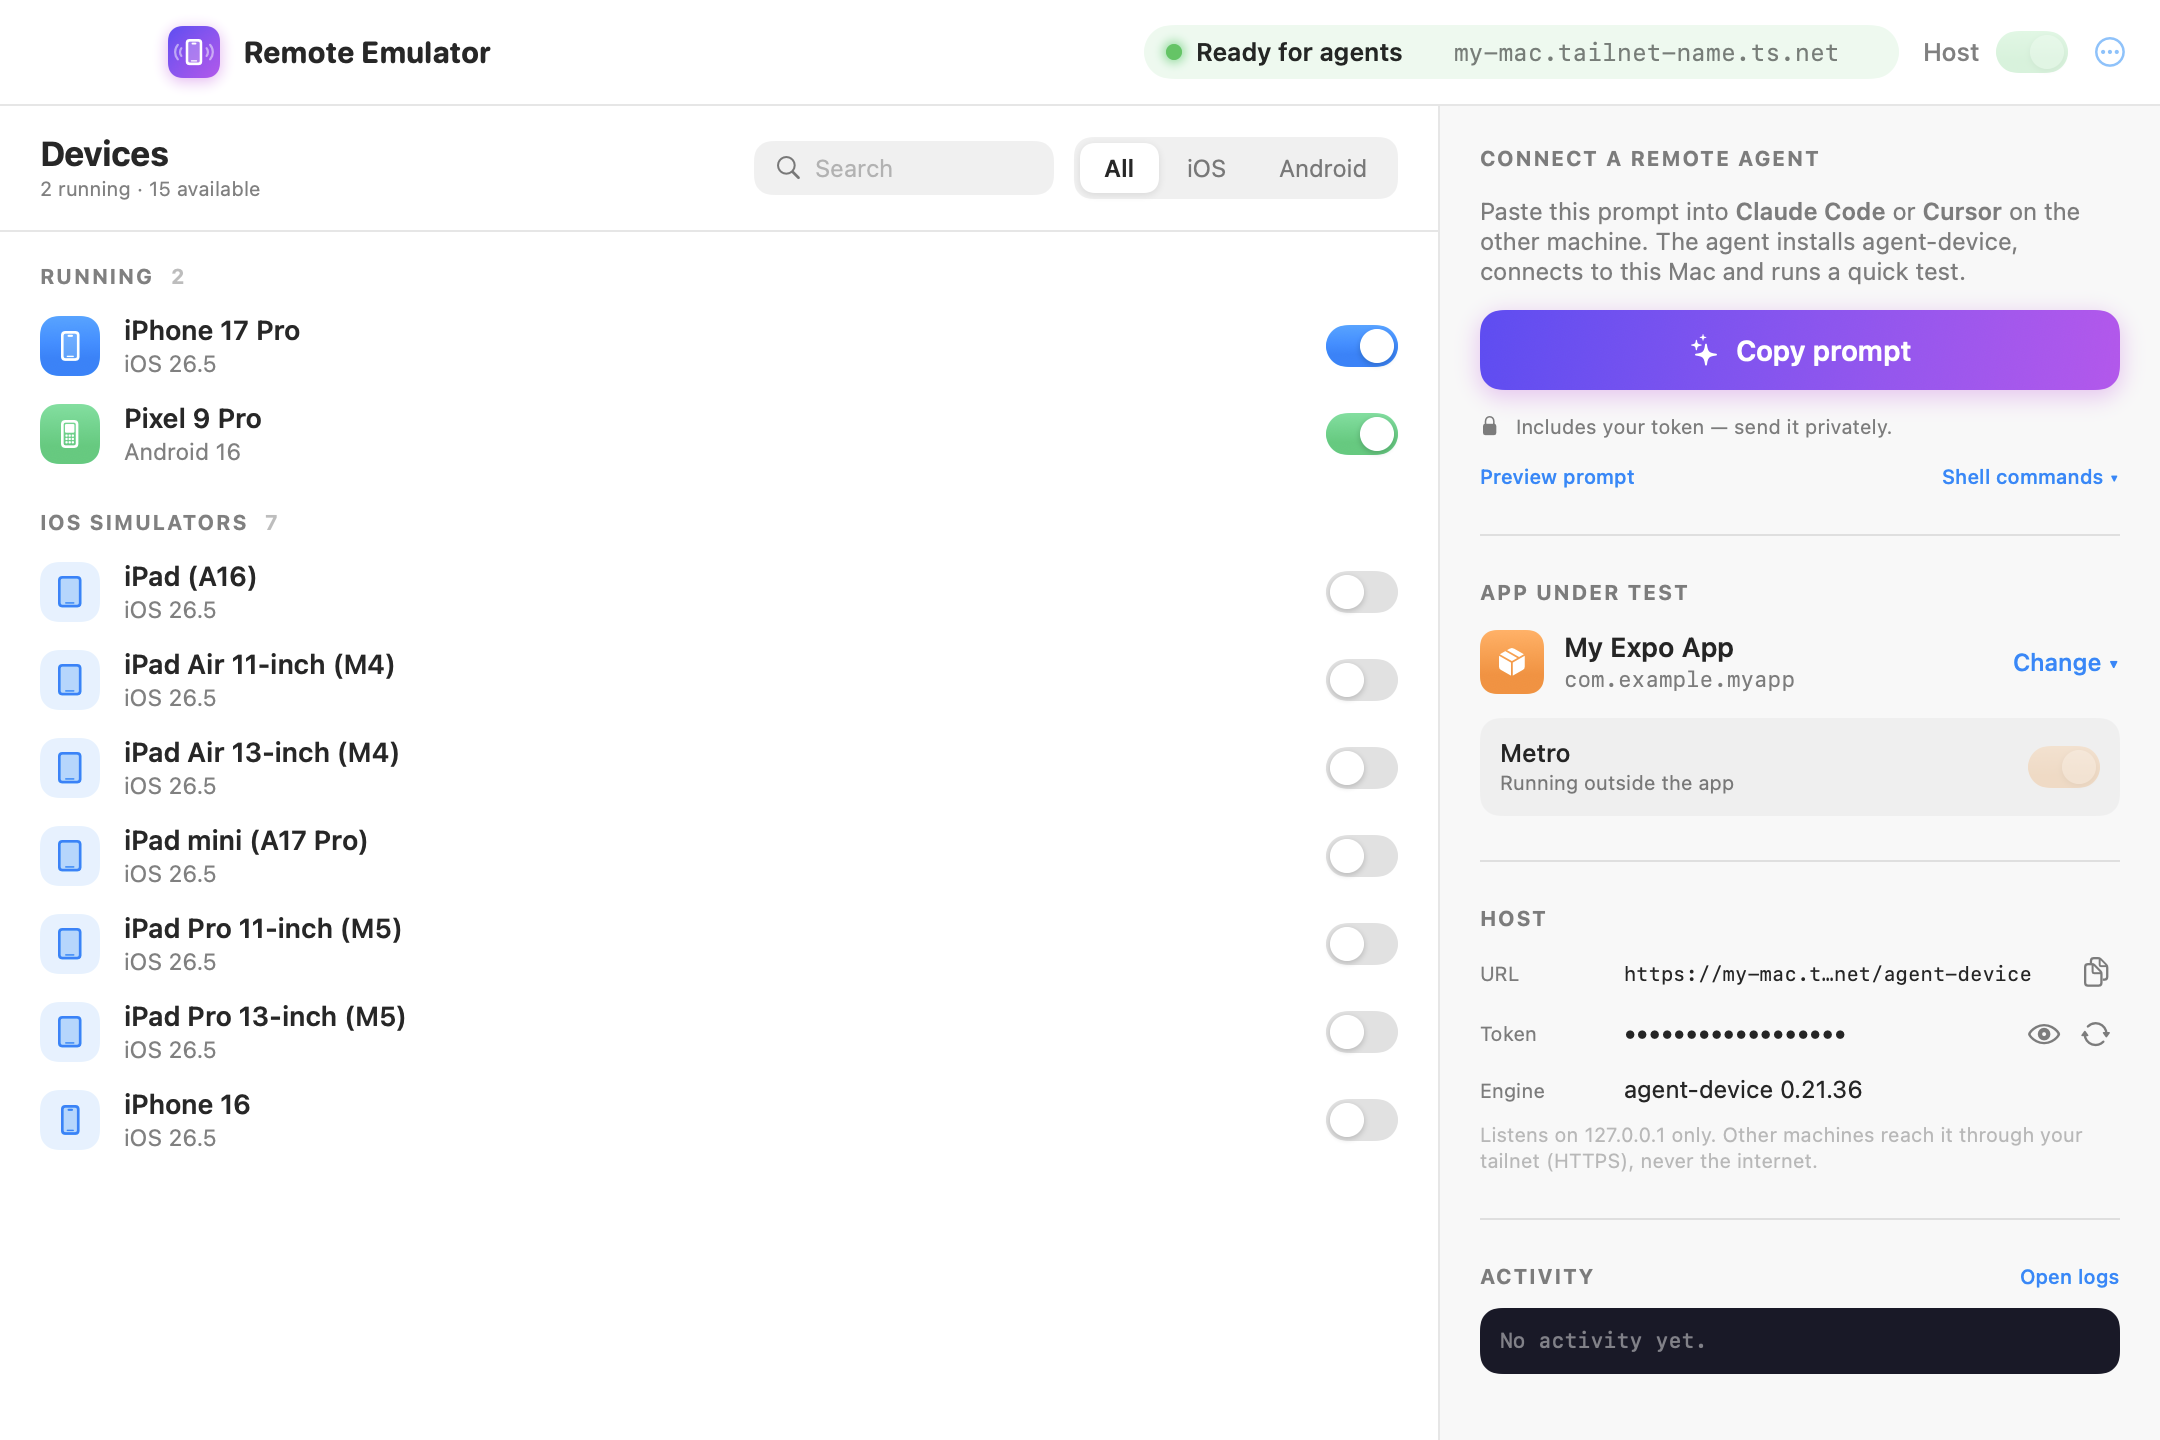
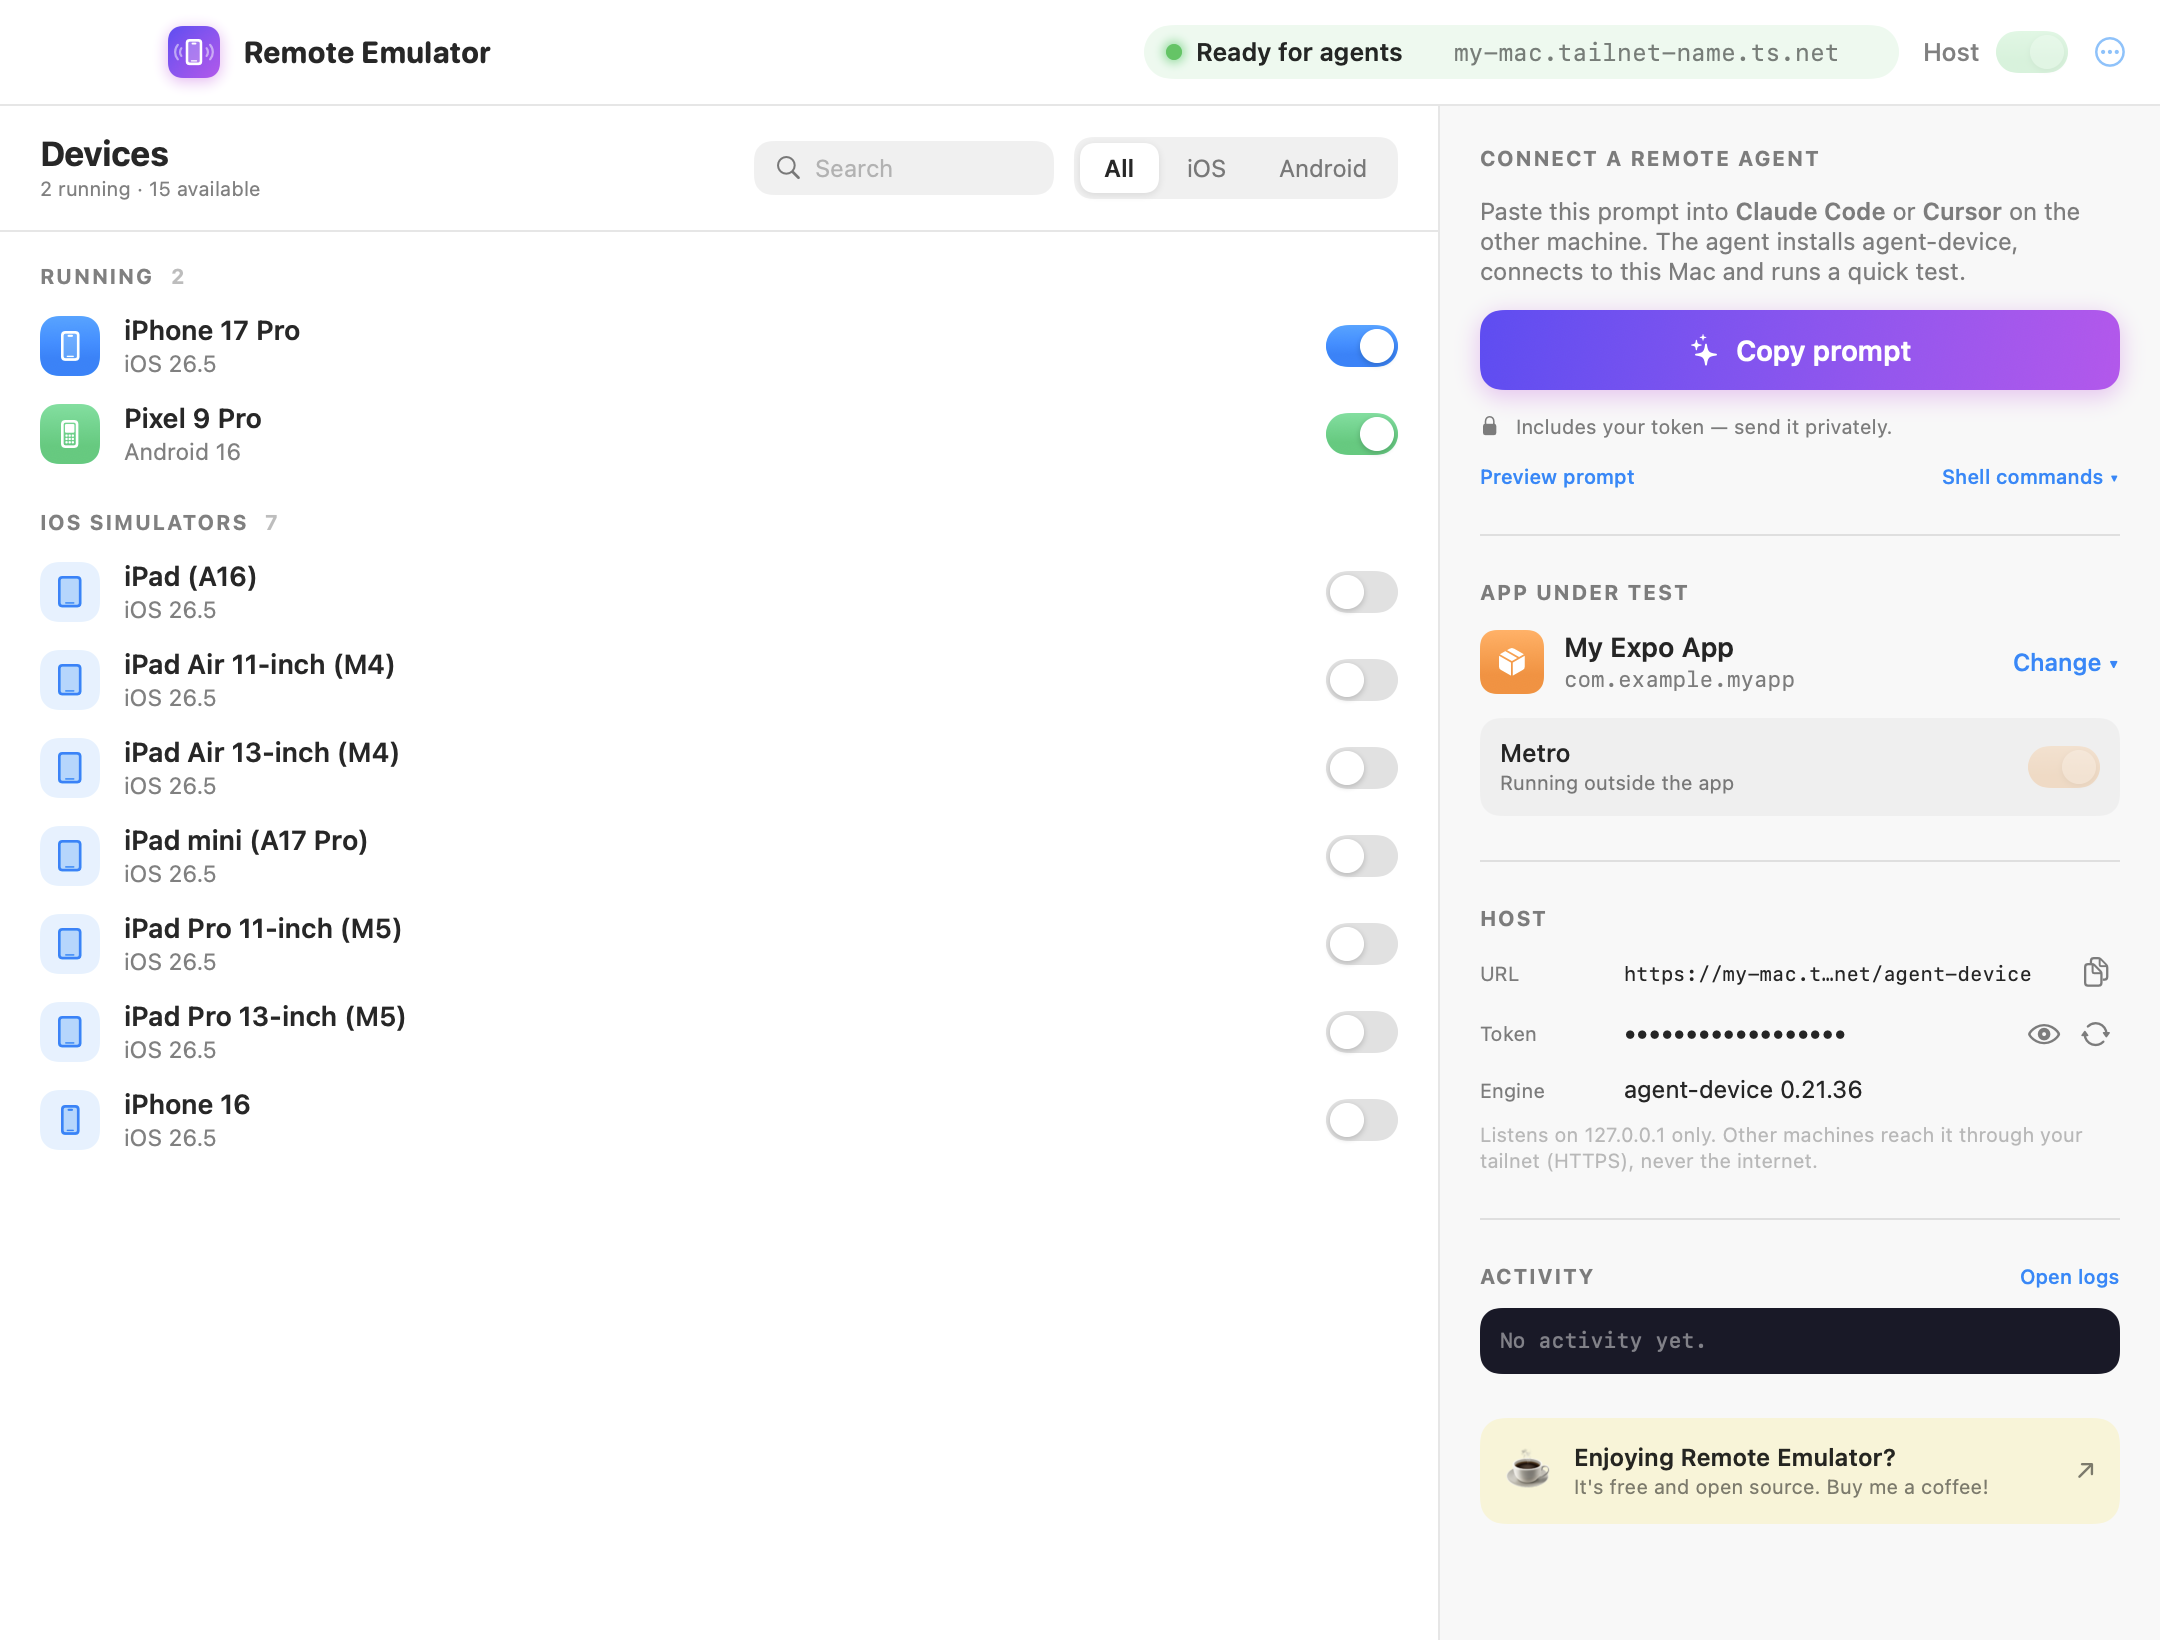
One-line installer, automatic releases and Buy Me a Coffee
- install.sh downloads the latest release into ~/Applications and opens it
  (the app is not notarized; the script clears the quarantine flag)
- Release workflow builds, tests and publishes Remote-Emulator.zip on v* tags
- Buy me a coffee in the app menu, inspector footer, menu bar, README and
  the GitHub Sponsor button

diff --git a/Sources/RemoteEmulator/Views/MainView.swift b/Sources/RemoteEmulator/Views/MainView.swift
@@ -49,6 +49,10 @@ private struct TopBar: View {
                 Button("Logs…") { model.showLogs = true }
                 Divider()
                 SettingsLink { Text("Settings…") }
+                Divider()
+                Button("☕ Buy me a coffee") { Links.open(Links.coffee) }
+                Button("Report an issue…") { Links.open(Links.issues) }
+                Button("GitHub repository") { Links.open(Links.repository) }
             }
         }
         .padding(.leading, 84) // room for the window's traffic lights
@@ -277,6 +281,7 @@ private struct Inspector: View {
                 HostSection()
                 Divider()
                 ActivitySection()
+                CoffeeFooter()
             }
             .padding(20)
         }
@@ -480,6 +485,30 @@ private struct ActivityLines: View {
         .frame(maxWidth: .infinity, alignment: .leading)
         .padding(10)
         .background(RoundedRectangle(cornerRadius: 10, style: .continuous).fill(Color(red: 0.10, green: 0.10, blue: 0.16)))
+    }
+}
+
+private struct CoffeeFooter: View {
+    @State private var hovering = false
+
+    var body: some View {
+        Button { Links.open(Links.coffee) } label: {
+            HStack(spacing: 10) {
+                Text("☕").font(.system(size: 20))
+                VStack(alignment: .leading, spacing: 1) {
+                    Text("Enjoying Remote Emulator?").font(.system(size: 12, weight: .semibold))
+                    Text("It's free and open source. Buy me a coffee!").font(.caption).foregroundStyle(.secondary)
+                }
+                Spacer()
+                Image(systemName: "arrow.up.right").font(.caption.weight(.semibold)).foregroundStyle(.secondary)
+            }
+            .padding(12)
+            .background(RoundedRectangle(cornerRadius: 12, style: .continuous)
+                .fill(Color(red: 1, green: 0.87, blue: 0.0).opacity(hovering ? 0.22 : 0.14)))
+            .contentShape(Rectangle())
+        }
+        .buttonStyle(.plain)
+        .onHover { hovering = $0 }
     }
 }
 

diff --git a/Sources/RemoteEmulator/RemoteEmulatorApp.swift b/Sources/RemoteEmulator/RemoteEmulatorApp.swift
@@ -78,7 +78,7 @@ enum Screenshot {
 
         let content: AnyView = page == "onboarding"
             ? AnyView(OnboardingView(step: .requirements).frame(width: 780, height: 600))
-            : AnyView(MainView().frame(width: 1080, height: 720))
+            : AnyView(MainView().frame(width: 1080, height: 820))
 
         // Render offscreen with SwiftUI: needs no Screen Recording permission.
         let renderer = ImageRenderer(content:

diff --git a/Sources/RemoteEmulator/Core/Links.swift b/Sources/RemoteEmulator/Core/Links.swift
@@ -1,0 +1,9 @@
+import AppKit
+
+enum Links {
+    static let coffee = URL(string: "https://buymeacoffee.com/JcscJosecarlossilvacoelho")!
+    static let repository = URL(string: "https://github.com/JcscJosecarlossilvacoelho/remote-emulator")!
+    static let issues = URL(string: "https://github.com/JcscJosecarlossilvacoelho/remote-emulator/issues")!
+
+    static func open(_ url: URL) { NSWorkspace.shared.open(url) }
+}

diff --git a/Sources/RemoteEmulator/Views/SecondaryViews.swift b/Sources/RemoteEmulator/Views/SecondaryViews.swift
@@ -112,6 +112,7 @@ struct MenuBarView: View {
             HStack {
                 Button("Open dashboard", action: openDashboard)
                 Spacer()
+                Button("☕") { Links.open(Links.coffee) }.help("Buy me a coffee")
                 Button("Quit") { NSApp.terminate(nil) }
             }
             .buttonStyle(.borderless)

diff --git a/README.md b/README.md
@@ -12,6 +12,7 @@ Android emulators on your Mac — privately, over Tailscale.
 ![macOS 14+](https://img.shields.io/badge/macOS-14%2B-black?logo=apple)
 ![Swift](https://img.shields.io/badge/Swift-SwiftUI-orange?logo=swift)
 ![License: MIT](https://img.shields.io/badge/License-MIT-blue)
+[![Buy me a coffee](https://img.shields.io/badge/☕-Buy%20me%20a%20coffee-ffdd00)](https://buymeacoffee.com/JcscJosecarlossilvacoelho)
 
 <img src="docs/screenshot.png" alt="Remote Emulator overview" />
 
@@ -79,13 +80,30 @@ Callstack (the engine that actually drives the devices) and
 
 ## Install
 
+**One line** (downloads the latest release into `~/Applications` and opens it):
+
+```sh
+curl -fsSL https://raw.githubusercontent.com/JcscJosecarlossilvacoelho/remote-emulator/main/install.sh | bash
+```
+
+<details>
+<summary>Manual download, or build from source</summary>
+
+**Manual:** download `Remote-Emulator.zip` from the
+[latest release](https://github.com/JcscJosecarlossilvacoelho/remote-emulator/releases/latest),
+unzip, move to Applications. The app is open source but **not notarized** (that needs a paid
+Apple Developer account), so macOS blocks it the first time: open **System Settings → Privacy &
+Security** and click **Open Anyway**, or run
+`xattr -dr com.apple.quarantine "/Applications/Remote Emulator.app"`.
+
+**From source:**
+
 ```sh
 git clone https://github.com/JcscJosecarlossilvacoelho/remote-emulator.git
 cd remote-emulator
 ./scripts/build-app.sh --install     # → ~/Applications/Remote Emulator.app
 ```
-
-Prebuilt, notarized releases are on the roadmap — contributions welcome!
+</details>
 
 ## Quick start
 
@@ -151,7 +169,7 @@ agent-device leases a different device to each session. The dashboard shows who 
 
 ## Roadmap
 
-- [ ] Signed & notarized releases + Homebrew cask
+- [ ] Signed & notarized releases + Homebrew cask (needs sponsors for the Apple Developer fee ☕)
 - [ ] Create / delete simulators and AVDs from the app
 - [ ] Per-device policy editor (allowed commands, read-only agents)
 - [ ] Live device thumbnails
@@ -166,6 +184,12 @@ PRs and issues are very welcome — see [CONTRIBUTING.md](CONTRIBUTING.md).
 swift build && swift run RemoteEmulator   # run from source
 swift test                                # unit tests
 ```
+
+## Support
+
+Remote Emulator is free and open source. If it saves you time (or a $299/month cloud
+simulator bill), you can [**buy me a coffee ☕**](https://buymeacoffee.com/JcscJosecarlossilvacoelho)
+— it helps pay for an Apple Developer account so releases can be signed and notarized.
 
 ## Credits
 
